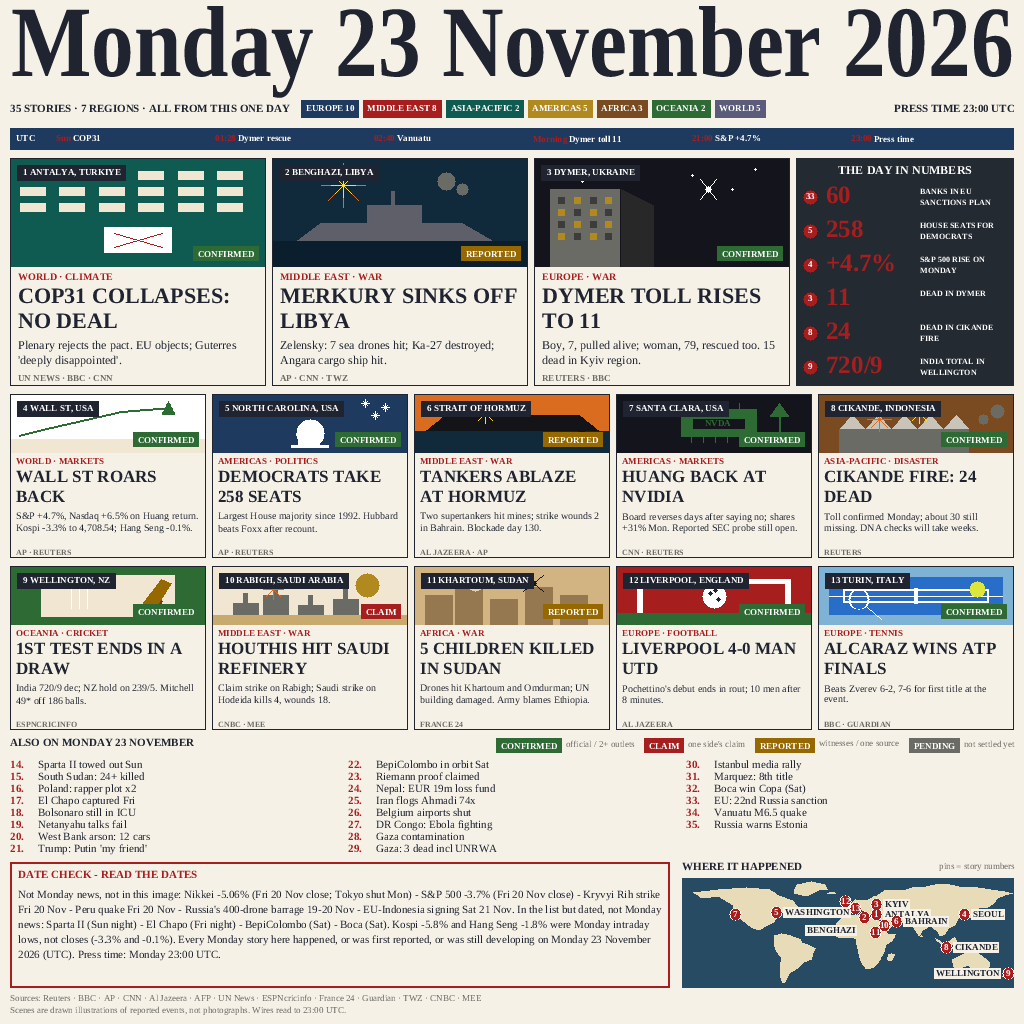
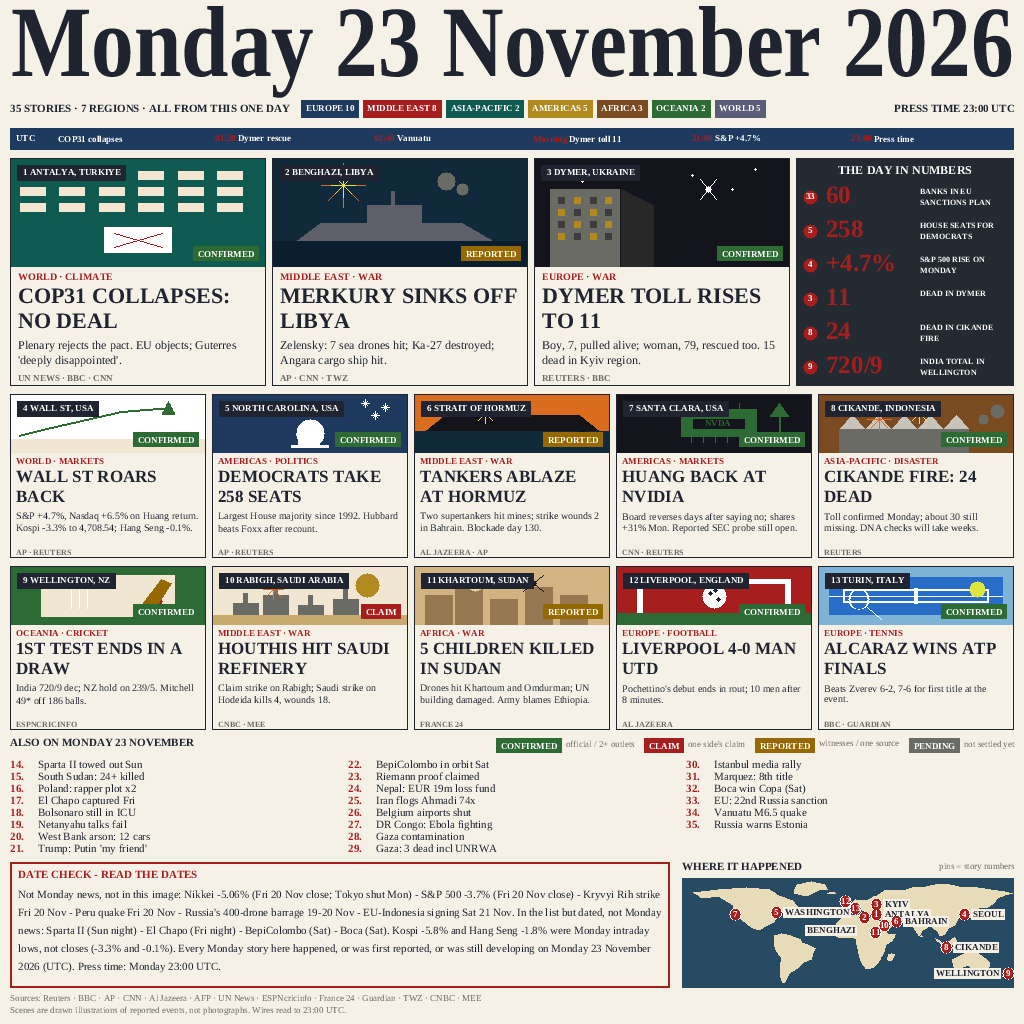
v6.2: final touches (Ban order 24 Nov — 'beri sentuhan terakhir v6')
1. Timeline first event: 'Sun COP31' -> 'COP31 collapses' (leading
   space = all-white label, no red time word). 'Sun' was confusing
   next to real times and the collapse has no verified UTC time —
   no time is invented. Renders clean: 'UTC COP31 collapses'.
2. DATE CHECK: leading 15->18px so the 5 Liberation lines fill the
   126px box (was ~26px dead space at the bottom, now ~8px).
No content changes.

Changed region(s): [[0.0, 0.875, 0.6562, 0.9688], [0.0625, 0.125, 0.125, 0.1562]]

diff --git a/main.py b/main.py
@@ -1074,7 +1074,7 @@ TOPLINE = "THE WORLD IN ONE DAY \u00b7 35 STORIES \u00b7 7 REGIONS \u00b7 PRESS 
 # label, label above the bar?) "SUN" = Sunday outcome carried into Monday;
 # "MORNING" = verified morning, exact hour approximate (~07:23 Kyiv local).
 TIMELINE = [
-    (0, "Sun COP31", True),
+    (0, " COP31 collapses", True),
     (88, "01:28 Dymer rescue", False),
     (160, "02:40 Vanuatu", True),
     (323, "Morning Dymer toll 11", False),
@@ -1369,7 +1369,7 @@ def build():
     cv.rect(mx, dy, 660, 126, RED, 2)
     draw_text(cv, mx + 8, dy + 8, "DATE CHECK - READ THE DATES", 11, RED,
               bold=True)
-    text_block(cv, mx + 8, dy + 28, DATECHECK, 11, INK, 644, 15)
+    text_block(cv, mx + 8, dy + 28, DATECHECK, 11, INK, 644, 18)
     draw_text(cv, 682, dy, "WHERE IT HAPPENED", 11, INK, bold=True)
     draw_text(cv, W - mx - int(text_width("pins = story numbers", 9)), dy,
               "pins = story numbers", 9, GREY)
